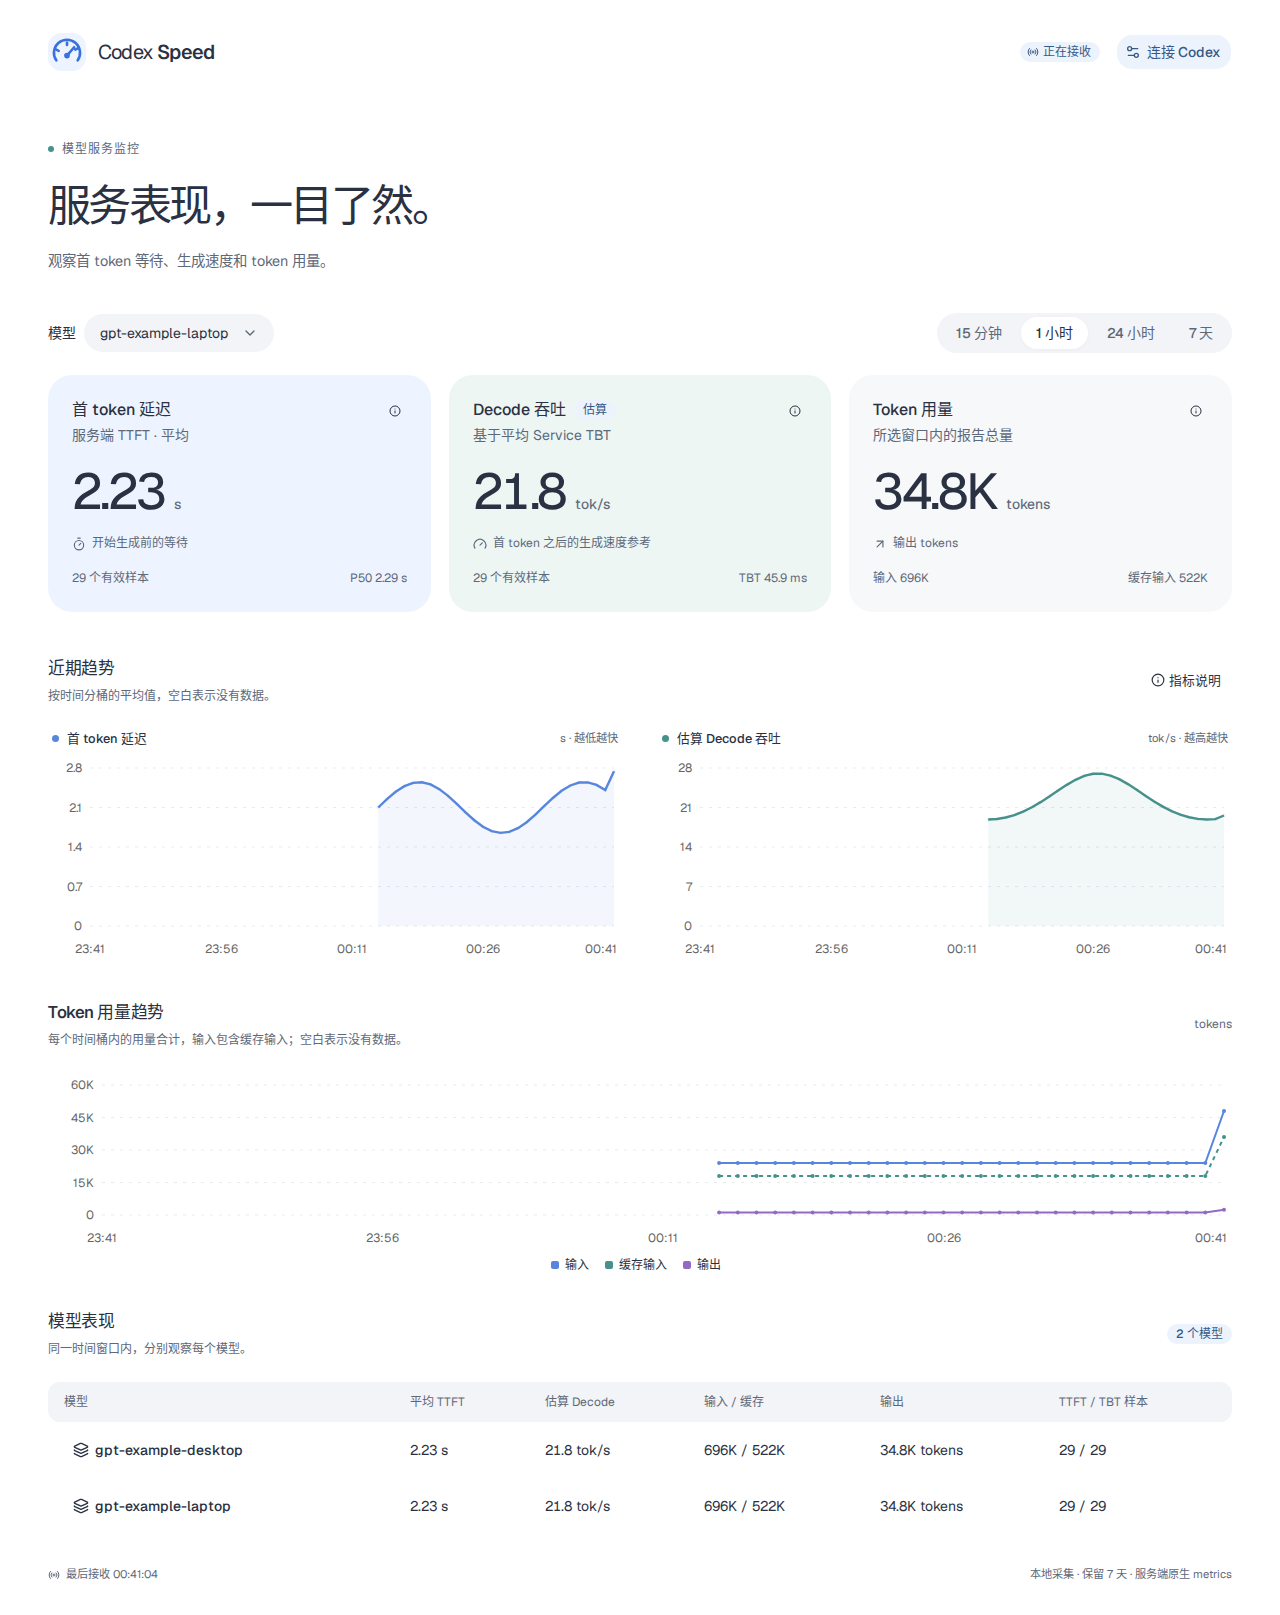
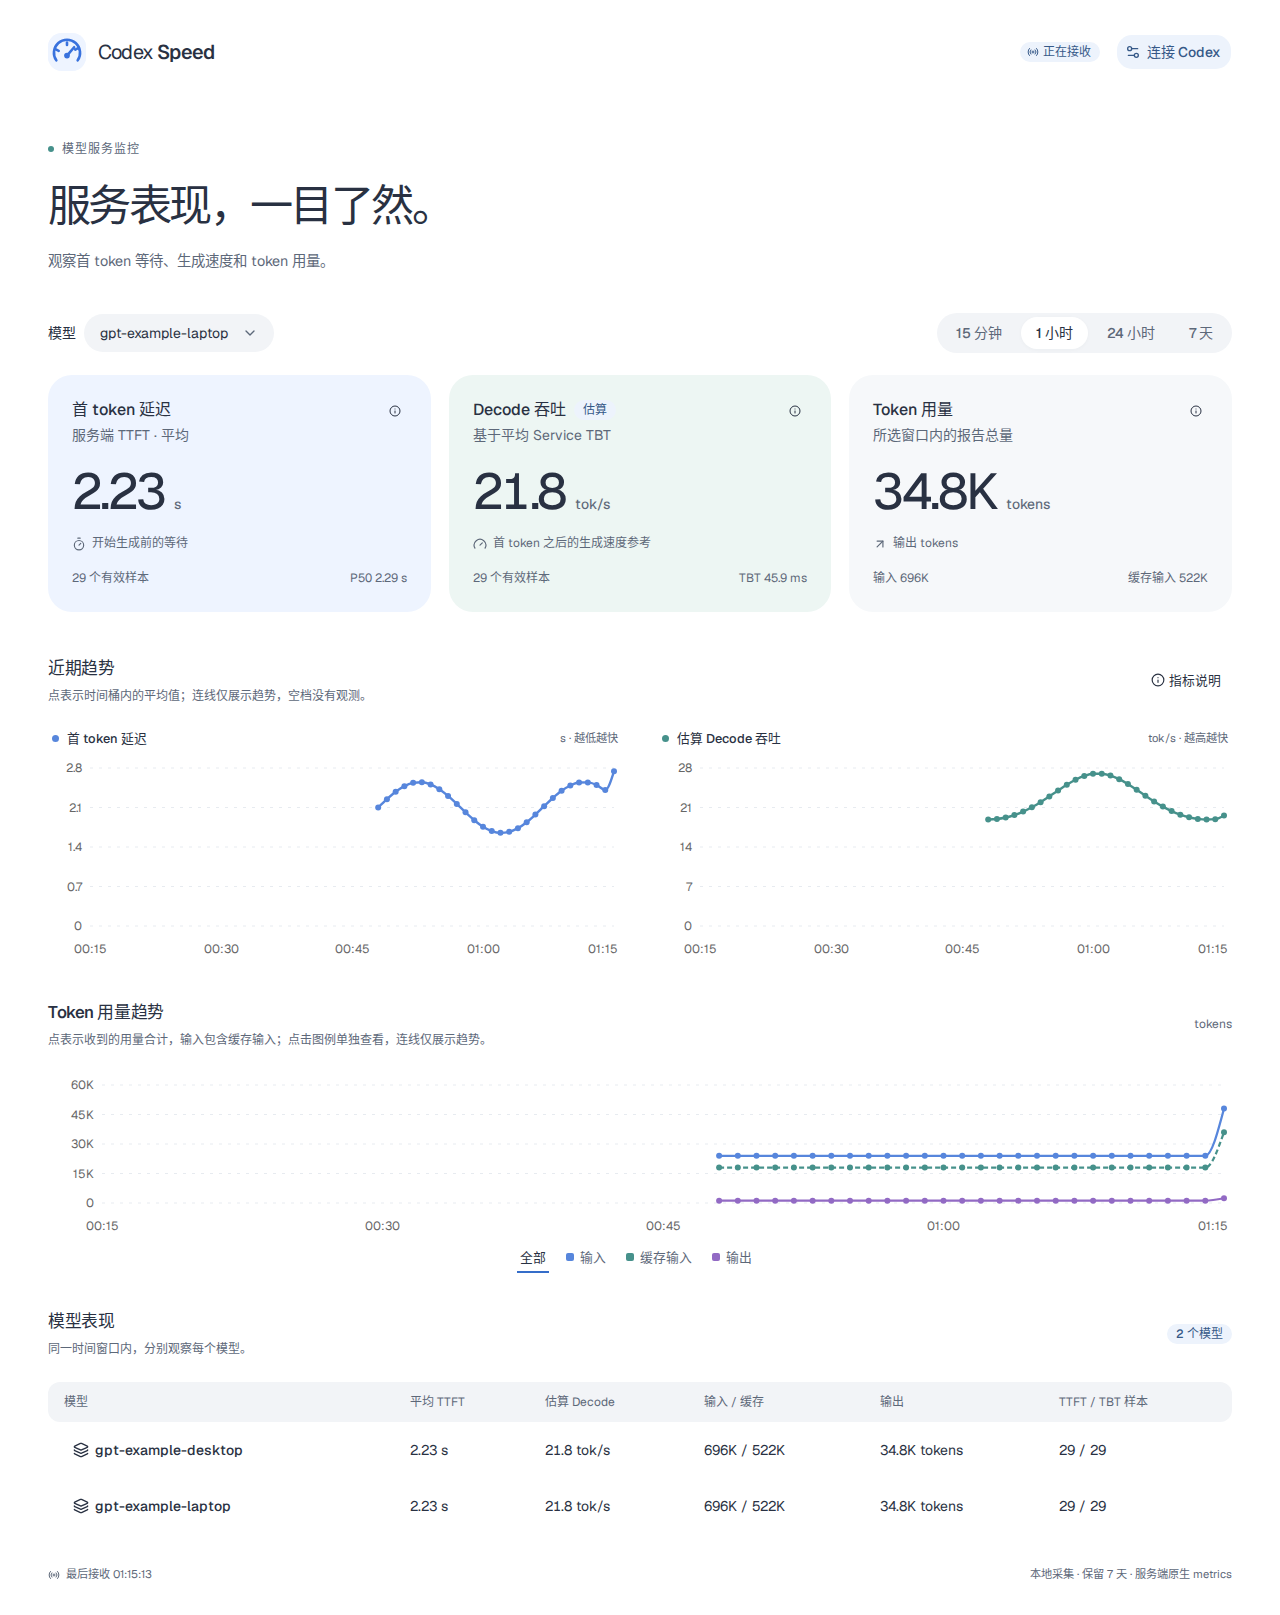
feat: enhance token trend visualization with toggle options and improve chart descriptions

diff --git a/web/src/components/token-trend.tsx b/web/src/components/token-trend.tsx
@@ -1,13 +1,14 @@
 import { ActivityIcon } from "lucide-react";
+import { useState } from "react";
 import { CartesianGrid, Line, LineChart, XAxis, YAxis } from "recharts";
 import {
   ChartContainer,
   ChartLegend,
-  ChartLegendContent,
   ChartTooltip,
   ChartTooltipContent,
 } from "@/components/ui/chart";
 import { Empty, EmptyDescription, EmptyHeader, EmptyMedia } from "@/components/ui/empty";
+import { ToggleGroup, ToggleGroupItem } from "@/components/ui/toggle-group";
 import { clock, type Snapshot, tokens } from "@/lib/api";
 
 const series = {
@@ -16,6 +17,7 @@ const series = {
   output_tokens: { label: "输出", color: "var(--chart-3)" },
 };
 export default function TokenTrend({ data }: { data: Snapshot }) {
+  const [selected, setSelected] = useState("all");
   if (
     !data.trend.some(
       (p) => p.input_tokens != null || p.cached_input_tokens != null || p.output_tokens != null,
@@ -45,7 +47,7 @@ export default function TokenTrend({ data }: { data: Snapshot }) {
           type="number"
           domain={["dataMin", "dataMax"]}
           tickFormatter={(v) =>
-            new Date(v).toLocaleTimeString("zh-CN", {
+            new Date(Number(v)).toLocaleTimeString("zh-CN", {
               hour: "2-digit",
               minute: "2-digit",
               hour12: false,
@@ -78,18 +80,43 @@ export default function TokenTrend({ data }: { data: Snapshot }) {
             />
           }
         />
-        <ChartLegend itemSorter={null} content={<ChartLegendContent />} />
+        <ChartLegend
+          content={
+            <ToggleGroup
+              aria-label="显示的 Token 用量"
+              className="token-legend mx-auto"
+              size="sm"
+              value={[selected]}
+              onValueChange={(value) => {
+                if (value[0]) setSelected(value[0]);
+              }}
+            >
+              <ToggleGroupItem value="all">全部</ToggleGroupItem>
+              {Object.entries(series).map(([key, { label, color }]) => (
+                <ToggleGroupItem key={key} value={key}>
+                  <span
+                    aria-hidden="true"
+                    className="size-2 shrink-0 rounded-xs"
+                    style={{ backgroundColor: color }}
+                  />
+                  {label}
+                </ToggleGroupItem>
+              ))}
+            </ToggleGroup>
+          }
+        />
         {Object.keys(series).map((key) => (
           <Line
             key={key}
             dataKey={key}
-            type="linear"
+            hide={selected !== "all" && selected !== key}
+            type="monotoneX"
             stroke={`var(--color-${key})`}
-            strokeWidth={2}
-            strokeDasharray={key === "cached_input_tokens" ? "4 4" : undefined}
-            dot={{ r: 2, strokeWidth: 0, fill: `var(--color-${key})` }}
+            strokeWidth={2.2}
+            strokeDasharray={key === "cached_input_tokens" ? "5 3" : undefined}
+            dot={{ r: 3, strokeWidth: 0, fill: `var(--color-${key})` }}
             activeDot={{ r: 5 }}
-            connectNulls={false}
+            connectNulls
             isAnimationActive={false}
           />
         ))}

diff --git a/web/src/components/trend.tsx b/web/src/components/trend.tsx
@@ -1,5 +1,5 @@
 import { ActivityIcon } from "lucide-react";
-import { Area, AreaChart, CartesianGrid, XAxis, YAxis } from "recharts";
+import { CartesianGrid, Line, LineChart, XAxis, YAxis } from "recharts";
 import TokenTrend from "@/components/token-trend";
 import { ChartContainer, ChartTooltip, ChartTooltipContent } from "@/components/ui/chart";
 import { Empty, EmptyDescription, EmptyHeader, EmptyMedia } from "@/components/ui/empty";
@@ -39,7 +39,7 @@ export default function Trend({
         },
       }}
     >
-      <AreaChart
+      <LineChart
         accessibilityLayer
         data={values}
         margin={{ left: 0, right: 8, top: 12, bottom: 0 }}
@@ -80,19 +80,17 @@ export default function Trend({
             />
           }
         />
-        <Area
-          type="linear"
+        <Line
+          type="monotoneX"
           dataKey="value"
           stroke="var(--color-value)"
-          fill="var(--color-value)"
-          fillOpacity={0.07}
           strokeWidth={2.4}
-          dot={{ r: 2, fill: "var(--color-value)", strokeWidth: 0 }}
+          dot={{ r: 3, fill: "var(--color-value)", strokeWidth: 0 }}
           activeDot={{ r: 5 }}
-          connectNulls={false}
+          connectNulls
           isAnimationActive={false}
         />
-      </AreaChart>
+      </LineChart>
     </ChartContainer>
   );
 }

diff --git a/web/src/index.css b/web/src/index.css
@@ -159,17 +159,17 @@
   height: 38px;
   padding-inline: 16px;
 }
-[data-slot="toggle-group"] {
+.toolbar [data-slot="toggle-group"] {
   background: var(--muted);
   padding: 4px;
   border-radius: 999px;
 }
-[data-slot="toggle-group-item"] {
+.toolbar [data-slot="toggle-group-item"] {
   border-radius: 999px;
   padding-inline: 15px;
   color: var(--muted-foreground);
 }
-[data-slot="toggle-group-item"][aria-pressed="true"] {
+.toolbar [data-slot="toggle-group-item"][aria-pressed="true"] {
   background: var(--background);
   color: var(--foreground);
   box-shadow: 0 1px 4px #29314208;
@@ -287,6 +287,27 @@
   width: 100%;
   height: 200px;
   aspect-ratio: auto;
+}
+.token-legend {
+  padding-top: 10px;
+  gap: 14px;
+}
+.token-legend [data-slot="toggle-group-item"] {
+  height: 30px;
+  padding-inline: 3px;
+  gap: 6px;
+  border-radius: 0;
+  border-bottom: 2px solid transparent;
+  color: var(--muted-foreground);
+  background: transparent;
+  font-weight: 400;
+}
+.token-legend [data-slot="toggle-group-item"][aria-pressed="true"] {
+  color: var(--foreground);
+  border-bottom-color: var(--primary);
+}
+.token-legend [data-slot="toggle-group-item"]:hover {
+  color: var(--foreground);
 }
 .chart-empty {
   height: 200px;

diff --git a/web/tests/dashboard.spec.ts b/web/tests/dashboard.spec.ts
@@ -48,6 +48,11 @@ test('setup, live metrics, filters and accessible responsive layout', async ({ p
   await expect(usage.getByText('缓存输入', { exact: true })).toBeVisible()
   await expect(usage.getByText('输出', { exact: true })).toBeVisible()
   await expect(usage.locator('.recharts-line')).toHaveCount(3)
+  await usage.getByRole('button', { name: '输出', exact: true }).click()
+  await expect(usage.getByRole('button', { name: '输出', exact: true })).toHaveAttribute('aria-pressed', 'true')
+  await expect(usage.locator('.recharts-line')).toHaveCount(1)
+  await usage.getByRole('button', { name: '全部', exact: true }).click()
+  await expect(usage.locator('.recharts-line')).toHaveCount(3)
   await page.getByRole('button', { name: '15 分钟', exact: true }).click()
   await expect.poll(async () => page.locator('.metrics-grid').innerText()).not.toContain('28 个有效样本')
   await page.getByRole('button', { name: '1 小时', exact: true }).click()

diff --git a/web/src/App.tsx b/web/src/App.tsx
@@ -410,7 +410,7 @@ export default function App() {
           <div className="section-heading">
             <div>
               <h2>近期趋势</h2>
-              <p>按时间分桶的平均值，空白表示没有数据。</p>
+              <p>点表示时间桶内的平均值；连线仅展示趋势，空档没有观测。</p>
             </div>
             {data && <Details data={data} />}
           </div>
@@ -449,7 +449,7 @@ export default function App() {
           <div className="section-heading">
             <div>
               <h2>Token 用量趋势</h2>
-              <p>每个时间桶内的用量合计，输入包含缓存输入；空白表示没有数据。</p>
+              <p>点表示收到的用量合计，输入包含缓存输入；点击图例单独查看，连线仅展示趋势。</p>
             </div>
             <span className="text-xs text-muted-foreground">tokens</span>
           </div>

diff --git a/README.md b/README.md
@@ -65,7 +65,7 @@ The headline numbers describe the selected window (15 minutes, 1 hour, 24 hours,
 
 Input includes cached input: do not add them together. Token metrics are reported per turn/model, while timing observations have their own scope. Timing and token counts are not paired into request records. Missing fields remain `—`; native reported zero values remain zero. P95 is withheld until there are at least 20 observations. Infinite histogram tails or incompatible bucket layouts can leave quantiles unavailable.
 
-Metrics arrive in periodic batches; server timings typically become available after a timing event, and token usage at turn completion. The dashboard does not show instantaneous per-token speed. Trends use up to 61 time buckets with gaps for missing measurements. Timing charts show bucket means; the token chart shows bucket sums for input, cached input and output. Cached input is neither stacked nor added to input. No turn-duration, tool-time subtraction, or session-log inference is used.
+Metrics arrive in periodic batches; server timings typically become available after a timing event, and token usage at turn completion. The dashboard does not show instantaneous per-token speed. Trends use up to 61 time buckets with gaps for missing measurements. Timing dots show bucket means; lines connect observed points across gaps without imputing missing values; the token chart shows bucket sums for input, cached input and output. Select a legend item to inspect one series with its own automatically scaled axis. Cached input is neither stacked nor added to input. No turn-duration, tool-time subtraction, or session-log inference is used.
 
 ## Storage and options
 

diff --git a/README.zh-CN.md b/README.zh-CN.md
@@ -65,7 +65,7 @@ metrics_exporter = { otlp-http = { endpoint = "http://127.0.0.1:4318/v1/metrics"
 
 输入已经包含缓存输入，不能相加。Token 指标按 turn/model 报告，计时观测有自己的范围，不强行拼成逐请求记录。缺失显示 `—`，原生报告的零值保留为零。至少 20 个观测后才显示 P95。无限尾桶或不同桶边界可能使分位数无法估算。
 
-网页随批次实时更新；服务端计时通常要等计时事件返回，token 用量通常在 turn 结束后更新，并非生成过程中的逐 token 即时速度。趋势按时间分桶，最多 61 个桶，没有观测就留空。计时图展示桶内平均值；Token 用量图分别展示输入、缓存输入、输出的桶内合计，不堆叠或相加缓存输入。不使用整轮 TPS、工具耗时扣减或会话日志逆推。
+网页随批次实时更新；服务端计时通常要等计时事件返回，token 用量通常在 turn 结束后更新，并非生成过程中的逐 token 即时速度。趋势按时间分桶，最多 61 个桶，没有观测就留空。计时图的数据点表示桶内平均值，连线跨过空档展示趋势，不补齐缺失数值；Token 用量图展示输入、缓存输入、输出的桶内合计，不堆叠或相加缓存输入。点击图例可单独查看一类用量，纵轴自动调整。不使用整轮 TPS、工具耗时扣减或会话日志逆推。
 
 ## 数据与参数
 
